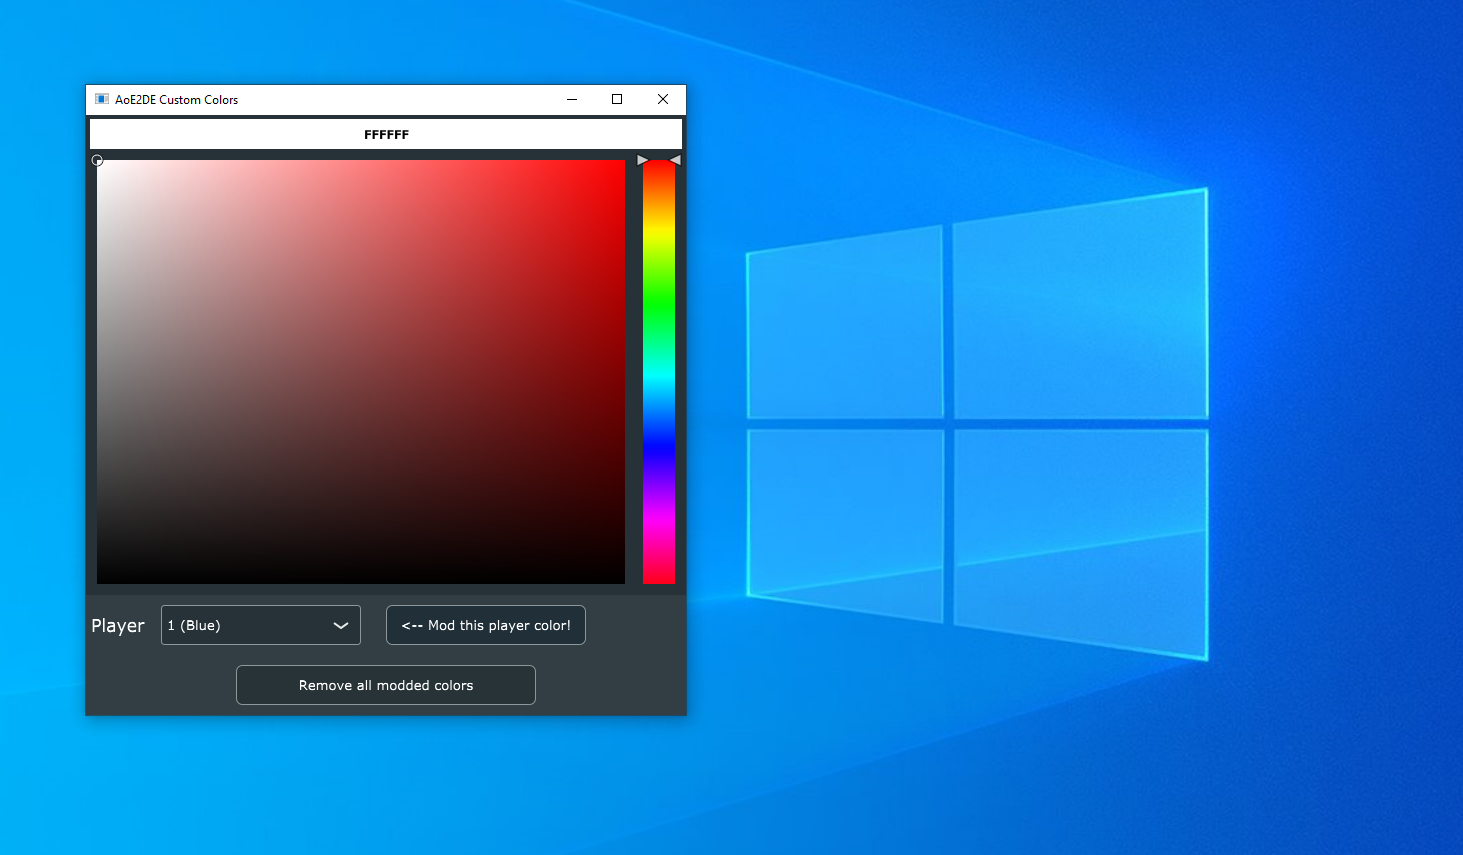
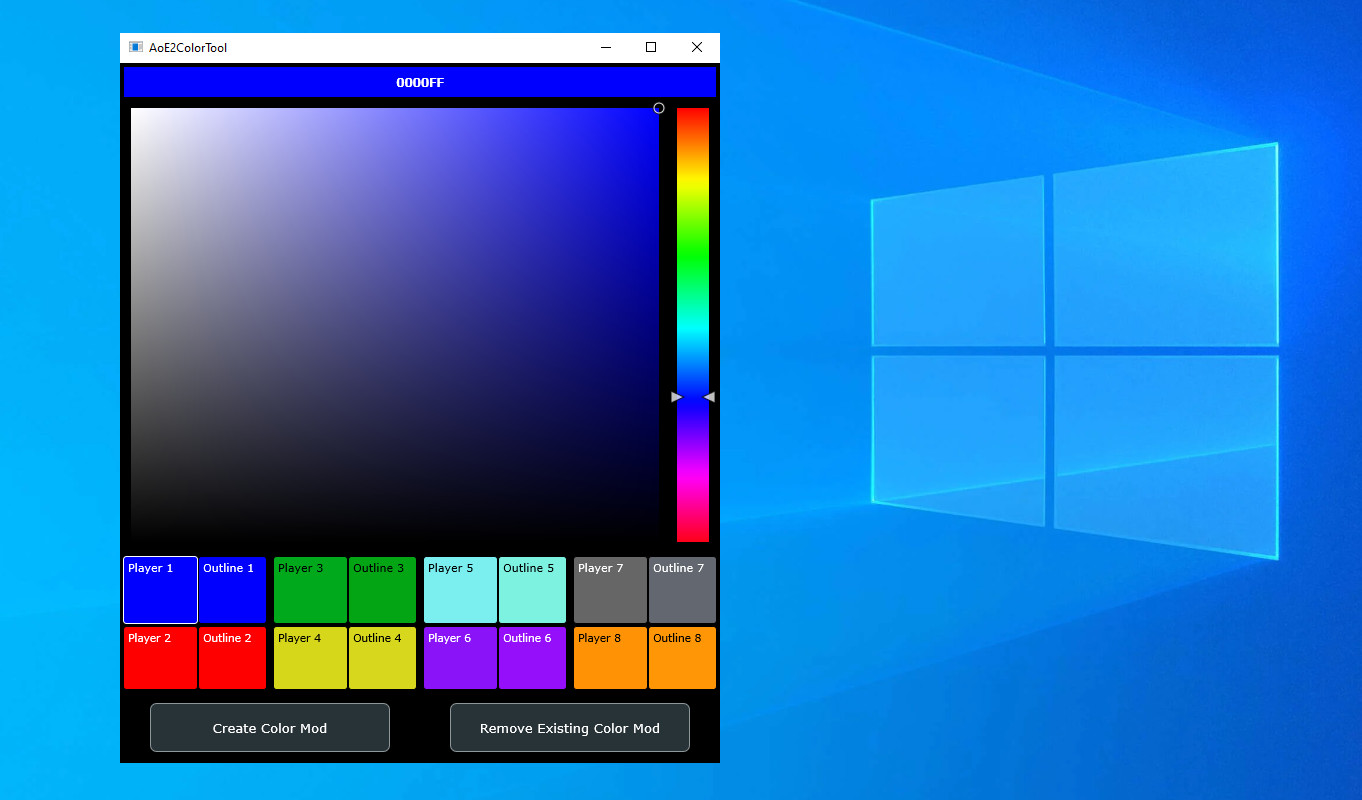
Reworked UI Fixed tool not working on recent versions of the game

diff --git a/src/ColourModder.cpp b/src/ColourModder.cpp
@@ -1,4 +1,5 @@
 #include "ColourModder.h"
+#include "../json/include/nlohmann/json.hpp"
 #include <fstream>
 
 float min3 (float p_a, float p_b, float p_c) {
@@ -129,7 +130,7 @@ ColourModder::ColourModder() {
 		    juce::AlertWindow::AlertIconType::WarningIcon,
 		    "Path not found",
 		    "The path " + m_local_mods_folder.getFullPathName() + " was not found. The tool will not work as intended!",
-		    "Shit!");
+		    "Ok!");
 		return;
 	}
 
@@ -140,7 +141,7 @@ ColourModder::ColourModder() {
 		    juce::AlertWindow::AlertIconType::WarningIcon,
 		    "Path not found",
 		    "The path " + m_local_mods_folder.getFullPathName() + " was not found. The tool will not work as intended!",
-		    "Shit!");
+		    "Ok!");
 	}
 
 	m_local_mods_folder = m_local_mods_folder.getChildFile ("Age of Empires 2 DE");
@@ -150,7 +151,7 @@ ColourModder::ColourModder() {
 		    juce::AlertWindow::AlertIconType::WarningIcon,
 		    "Path not found",
 		    "The path " + m_local_mods_folder.getFullPathName() + " was not found. The tool will not work as intended!",
-		    "Shit!");
+		    "Ok!");
 		return;
 	}
 
@@ -172,7 +173,7 @@ ColourModder::ColourModder() {
 		    juce::AlertWindow::AlertIconType::WarningIcon,
 		    "Path not found",
 		    "The random number path in " + m_local_mods_folder.getFullPathName() + " was not found. The tool will not work as intended!",
-		    "Shit!");
+		    "Ok!");
 		return;
 	}
 
@@ -183,7 +184,7 @@ ColourModder::ColourModder() {
 		    juce::AlertWindow::AlertIconType::WarningIcon,
 		    "Path not found",
 		    "The path " + m_local_mods_folder.getFullPathName() + " was not found. The tool will not work as intended!",
-		    "Shit!");
+		    "Ok!");
 		return;
 	}
 
@@ -194,9 +195,51 @@ ColourModder::ColourModder() {
 		    juce::AlertWindow::AlertIconType::WarningIcon,
 		    "Path not found",
 		    "The path " + m_local_mods_folder.getFullPathName() + " was not found. The tool will not work as intended!",
-		    "Shit!");
+		    "Ok!");
 		return;
 	}
+}
+
+void ColourModder::createSpriteMod (std::array<juce::Colour, 8> p_team_colours, std::array<juce::Colour, 8> p_outline_colours) {
+
+	for (int player = 0; player < 8; ++player)
+		modColour (player + 1, p_team_colours[player]);
+
+	auto palette_folder = m_local_mods_folder.getChildFile (MOD_FOLDER_NAME).getChildFile ("resources").getChildFile ("_common").getChildFile ("palettes");
+
+	//juce::URL (palette_folder.getFullPathName()).launchInDefaultBrowser();
+
+	if (!palette_folder.isDirectory()) {
+		juce::AlertWindow::showMessageBox (
+		    juce::AlertWindow::AlertIconType::WarningIcon,
+		    "Unable to find palette folder: " + palette_folder.getFullPathName().toStdString(),
+		    "Ok!");
+		return;
+	}
+
+	auto data = nlohmann::json::parse (juce::String::createStringFromData (BinaryData::spritecolors_json, BinaryData::spritecolors_jsonSize).toStdString());
+	for (int player = 0; player < 8; ++player) {
+		auto& teamColourData    = data["TeamColors"][std::string ("Player ") + std::to_string (player + 1)]["FloatRGBA"];
+		auto& outlineColourData = data["OutlineColors"][std::string ("Player ") + std::to_string (player + 1)]["FloatRGBA"];
+
+		teamColourData["r"] = p_team_colours[player].getFloatRed();
+		teamColourData["g"] = p_team_colours[player].getFloatGreen();
+		teamColourData["b"] = p_team_colours[player].getFloatBlue();
+
+		outlineColourData["r"] = p_outline_colours[player].getFloatRed();
+		outlineColourData["g"] = p_outline_colours[player].getFloatGreen();
+		outlineColourData["b"] = p_outline_colours[player].getFloatBlue();
+	}
+
+	auto output_file = palette_folder.getChildFile ("spritecolors.json");
+	output_file.replaceWithText (data.dump (4));
+
+	juce::String message = "Successfully created a local mod. The mod will show up in your in-game mod browser. You candisable it there anytime or remove it here in the tool.\n\nRestart AoE2:DE for the mod to be picked up.";
+
+	juce::AlertWindow::showMessageBox (
+	    juce::AlertWindow::AlertIconType::InfoIcon,
+	    "Created Mod Successfully! 14!",
+	    message);
 }
 
 void ColourModder::modColour (int p_id, juce::Colour p_col) {
@@ -211,7 +254,7 @@ void ColourModder::modColour (int p_id, juce::Colour p_col) {
 		juce::AlertWindow::showMessageBox (
 		    juce::AlertWindow::AlertIconType::WarningIcon,
 		    "Unable to find palette folder: " + palette_folder.getFullPathName().toStdString(),
-		    "Shit!");
+		    "Ok!");
 		return;
 	}
 
@@ -359,16 +402,6 @@ void ColourModder::modColour (int p_id, juce::Colour p_col) {
 	}
 	ifs.close();
 	ofs.close();
-
-	juce::String message;
-	if (created_mod) {
-		message = "Successfully created local mod. The mod will show up in your in-game mod browser. You candisable it there anytime.\n\n Restart AoE2:DE for the mod to be picked up.";
-	}
-
-	juce::AlertWindow::showMessageBox (
-	    juce::AlertWindow::AlertIconType::InfoIcon,
-	    "Sucess!",
-	    message);
 }
 
 bool ColourModder::modFolderExists() {
@@ -422,7 +455,7 @@ void ColourModder::createModSkeleton() {
 void ColourModder::removeMod() {
 	if (juce::AlertWindow::showOkCancelBox (juce::AlertWindow::WarningIcon,
 	                                        "Delete Modded Colors",
-	                                        "Are you sure you want to delete all the previously modded colors and return to the original AoE2:DE color scheme?",
+	                                        "Are you sure you want to delete the previously created color mod?",
 	                                        {},
 	                                        {},
 	                                        {})) {
@@ -436,5 +469,20 @@ void ColourModder::removeMod() {
 }
 
 juce::Colour ColourModder::getColourFor (int p_index) const {
-	return juce::Colours::red;
+	auto sprite_colors_file = m_local_mods_folder.getChildFile (MOD_FOLDER_NAME).getChildFile ("resources").getChildFile ("_common").getChildFile ("palettes").getChildFile ("spritecolors.json");
+	auto mod_exists         = sprite_colors_file.existsAsFile();
+
+	nlohmann::json data;
+
+	std::string data_index = (p_index >= 8 ? "OutlineColors" : "TeamColors");
+	if (p_index >= 8)
+		p_index -= 8;
+
+	if (!mod_exists)
+		data = nlohmann::json::parse (juce::String::createStringFromData (BinaryData::spritecolors_json, BinaryData::spritecolors_jsonSize).toStdString());
+	else
+		data = nlohmann::json::parse (sprite_colors_file.loadFileAsString().toStdString());
+
+	auto& colourData = data[data_index][std::string ("Player ") + std::to_string (p_index + 1)]["FloatRGBA"];
+	return juce::Colour::fromFloatRGBA (colourData["r"].get<float>(), colourData["g"].get<float>(), colourData["b"].get<float>(), 1.0f);
 }

diff --git a/src/MainComponent.cpp b/src/MainComponent.cpp
@@ -1,7 +1,9 @@
 #include "MainComponent.h"
 
 MainComponent::MainComponent() :
-    m_colour_picker (juce::ColourSelector::ColourSelectorOptions::showColourAtTop | juce::ColourSelector::ColourSelectorOptions::showColourspace), m_mod_button (MOD_BUTTON_TEXT), m_clear_button (CLEAR_BUTTON_TEXT) {
+    m_colour_picker (juce::ColourSelector::ColourSelectorOptions::showColourAtTop | juce::ColourSelector::ColourSelectorOptions::showColourspace | juce::ColourSelector::ColourSelectorOptions::editableColour),
+    m_mod_button (MOD_BUTTON_TEXT),
+    m_clear_button (CLEAR_BUTTON_TEXT) {
 
 	for (int button = 0; button < NUM_BUTTONS; ++button) {
 		m_buttons[button] = std::make_unique<ColourButton> (button + 1);
@@ -15,30 +17,43 @@ MainComponent::MainComponent() :
 	}
 
 	addAndMakeVisible (m_colour_picker);
-	addAndMakeVisible (m_player_selector);
 	addAndMakeVisible (m_mod_button);
 	addAndMakeVisible (m_clear_button);
 
-	for (int player = 1; player <= 8; ++player) {
-		m_player_selector.addItem (std::to_string (player) + " (" + m_player_color_names[player] + ")", player);
-	}
-
-	m_player_selector.setSelectedId (1);
-
 	m_mod_button.onClick = [&]() {
-		m_colour_modder.modColour (m_player_selector.getSelectedId(), m_colour_picker.getCurrentColour());
+		m_colour_modder.createSpriteMod ({m_buttons[0]->getColour(),
+		                                  m_buttons[1]->getColour(),
+		                                  m_buttons[2]->getColour(),
+		                                  m_buttons[3]->getColour(),
+		                                  m_buttons[4]->getColour(),
+		                                  m_buttons[5]->getColour(),
+		                                  m_buttons[6]->getColour(),
+		                                  m_buttons[7]->getColour()},
+		                                 {m_buttons[8]->getColour(),
+		                                  m_buttons[9]->getColour(),
+		                                  m_buttons[10]->getColour(),
+		                                  m_buttons[11]->getColour(),
+		                                  m_buttons[12]->getColour(),
+		                                  m_buttons[13]->getColour(),
+		                                  m_buttons[14]->getColour(),
+		                                  m_buttons[15]->getColour()});
 	};
 
 	m_clear_button.onClick = [&]() {
 		m_colour_modder.removeMod();
+		for (int button = 0; button < NUM_BUTTONS; ++button)
+			m_buttons[button]->setColour (m_colour_modder.getColourFor (button));
+		setSelectedButton (0);
+		startEditingPlayer (0);
 	};
 
 	m_colour_picker.setColour (juce::ColourSelector::ColourIds::backgroundColourId, juce::Colours::black);
 	m_colour_picker.addChangeListener (this);
 
 	setSelectedButton (0);
+	startEditingPlayer (0);
 
-	setSize (600, 800);
+	setSize (600, 700);
 }
 
 MainComponent::~MainComponent() {
@@ -52,6 +67,10 @@ void MainComponent::changeListenerCallback (ChangeBroadcaster*) {
 //==============================================================================
 void MainComponent::paint (juce::Graphics& g) {
 	g.fillAll (juce::Colours::black);
+
+	g.setColour (juce::Colours::white.withAlpha (0.3f));
+	g.setFont (15);
+	g.drawText (juce::String ("Version ") + juce::String (ProjectInfo::versionString), getLocalBounds().reduced (3, 3), juce::Justification::bottomRight);
 }
 
 void MainComponent::resized() {
@@ -59,19 +78,32 @@ void MainComponent::resized() {
 
 	m_colour_picker.setBounds (bounds.removeFromTop (juce::roundToInt (getHeight() * COLOR_PICKER_HEIGHT_PERCENT / 100.f)));
 
-	m_clear_button.setBounds (bounds.removeFromBottom (juce::roundToInt ((bounds.getHeight() / 4.0f))));
-	auto upper_bounds = bounds.removeFromBottom (juce::roundToInt (bounds.getHeight() / 3.0f));
-	m_player_selector.setBounds (upper_bounds.removeFromLeft (juce::roundToInt (upper_bounds.getWidth() / 2.0f)));
-	m_mod_button.setBounds (upper_bounds);
+	auto button_bounds = bounds.removeFromBottom (juce::roundToInt (bounds.getHeight() / 3.0f));
+	m_mod_button.setBounds (button_bounds.removeFromLeft (button_bounds.getWidth() / 2));
+	m_clear_button.setBounds (button_bounds);
+	const auto button_height = juce::roundToInt (getHeight() * 0.05f);
+	const auto button_width  = juce::roundToInt (getWidth() * 0.3);
+	m_clear_button.setBounds (m_clear_button.getBounds().withSizeKeepingCentre (button_width, button_height));
+	m_mod_button.setBounds (m_mod_button.getBounds().withSizeKeepingCentre (button_width, button_height));
 
+	positionColourButtons (bounds);
+}
+
+void MainComponent::positionColourButtons (juce::Rectangle<int> p_bounds) {
 	auto counter = 0;
-	auto width   = juce::roundToInt (bounds.getWidth() / (NUM_BUTTONS / 2));
-	auto height  = juce::roundToInt (bounds.getHeight() / 2);
-	for (int row = 0; row < NUM_BUTTONS / 2; ++row) {
-		auto button_bounds = bounds.removeFromLeft (width);
+	auto width   = juce::roundToInt (p_bounds.getWidth() / (NUM_PLAYERS / 2));
+	auto height  = juce::roundToInt (p_bounds.getHeight() / 2);
+	for (int row = 0; row < NUM_PLAYERS / 2; ++row) {
+		auto button_bounds = p_bounds.removeFromLeft (width).reduced (2, 2);
 
-		m_buttons[counter++]->setBounds (button_bounds.removeFromTop (height).reduced (1, 1));
-		m_buttons[counter++]->setBounds (button_bounds.removeFromTop (height).reduced (1, 1));
+		auto local_bounds = button_bounds.removeFromTop (height).reduced (1, 1);
+		m_buttons[counter]->setBounds (local_bounds.removeFromLeft (width / 2));
+		m_buttons[counter + NUM_PLAYERS]->setBounds (local_bounds.removeFromLeft (width / 2));
+		++counter;
+		local_bounds = button_bounds.removeFromTop (height).reduced (1, 1);
+		m_buttons[counter]->setBounds (local_bounds.removeFromLeft (width / 2));
+		m_buttons[counter + NUM_PLAYERS]->setBounds (local_bounds.removeFromLeft (width / 2));
+		++counter;
 	}
 }
 

diff --git a/src/ColourButton.cpp b/src/ColourButton.cpp
@@ -18,17 +18,18 @@ void ColourButton::paint (juce::Graphics& g) {
 	static constexpr auto corner = 3.0f;
 
 	g.setColour (m_colour);
-	g.fillRoundedRectangle (getLocalBounds().toFloat(), corner);
+	g.fillRoundedRectangle (getLocalBounds().toFloat().reduced (stroke / 2.0f), corner);
 	if (m_selected)
 		g.setColour (juce::Colours::white);
 	else
 		g.setColour (m_highlight ? juce::Colours::yellow : juce::Colours::black);
 
-	g.drawRoundedRectangle (getLocalBounds().toFloat().reduced (stroke / 2), corner, stroke);
+	g.drawRoundedRectangle (getLocalBounds().toFloat().reduced (stroke / 2.0f), corner, stroke);
 
 	g.setColour (m_colour.getPerceivedBrightness() > 0.5f ? juce::Colours::black : juce::Colours::white);
-	g.setFont (juce::roundToInt (getHeight() * 0.3f));
-	g.drawText (juce::String (m_number), getLocalBounds().reduced (5, 5), juce::Justification::topLeft);
+	g.setFont (getHeight() * 0.2f);
+	juce::String text = (m_number > 8 ? (juce::String ("Outline ") + juce::String (m_number - 8)) : (juce::String ("Player ") + juce::String (m_number)));
+	g.drawText (text, getLocalBounds().reduced (5, 5), juce::Justification::topLeft);
 }
 
 void ColourButton::mouseMove (const juce::MouseEvent&) {

diff --git a/src/MainComponent.h b/src/MainComponent.h
@@ -5,9 +5,10 @@
 #include <JuceHeader.h>
 #include <map>
 
-#define COLOR_PICKER_HEIGHT_PERCENT 60
-#define MOD_BUTTON_TEXT "<-- Mod this player color!"
-#define CLEAR_BUTTON_TEXT "Remove all modded colors"
+#define COLOR_PICKER_HEIGHT_PERCENT 70
+#define MOD_BUTTON_TEXT "Create Color Mod"
+#define CLEAR_BUTTON_TEXT "Remove Existing Color Mod"
+#define EDIT_OUTLINE_BUTTON_TEXT "Edit Outlines Separately"
 
 class MainComponent : public juce::Component, public juce::ChangeListener {
 public:
@@ -24,14 +25,16 @@ public:
 	void setSelectedButton (int p_player);
 
 private:
-	static constexpr auto NUM_BUTTONS = 8;
+	static constexpr auto NUM_PLAYERS = 8;
+	static constexpr auto NUM_BUTTONS = 16;
+
+	void positionColourButtons (juce::Rectangle<int> p_bounds);
 
 	std::array<std::unique_ptr<ColourButton>, NUM_BUTTONS> m_buttons;
 
 	std::map<int, std::string> m_player_color_names = {{1, "Blue"}, {2, "Red"}, {3, "Green"}, {4, "Yellow"}, {5, "Teal"}, {6, "Purple"}, {7, "Grey"}, {8, "Orange"}};
 
 	juce::ColourSelector m_colour_picker;
-	juce::ComboBox m_player_selector;
 	juce::TextButton m_mod_button;
 	juce::TextButton m_clear_button;
 

diff --git a/src/ColourModder.h b/src/ColourModder.h
@@ -25,6 +25,8 @@ public:
 	void removeMod();
 	void modColour (int p_id, juce::Colour p_col);
 
+	void createSpriteMod (std::array<juce::Colour, 8> p_team_colours, std::array<juce::Colour, 8> p_outline_colours);
+
 	juce::Colour getColourFor (int p_index) const;
 
 private:
